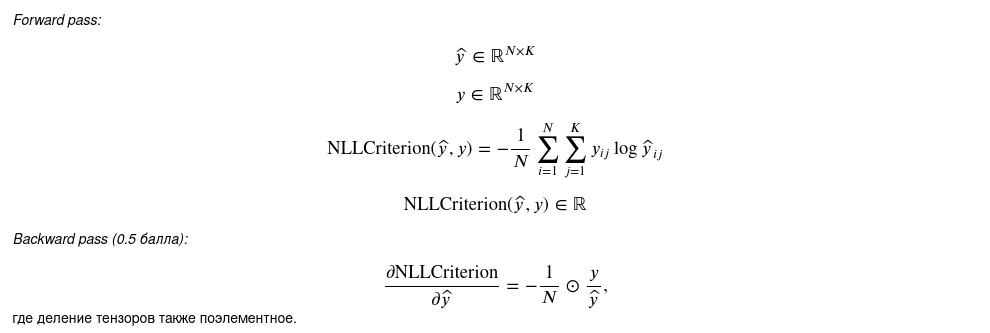
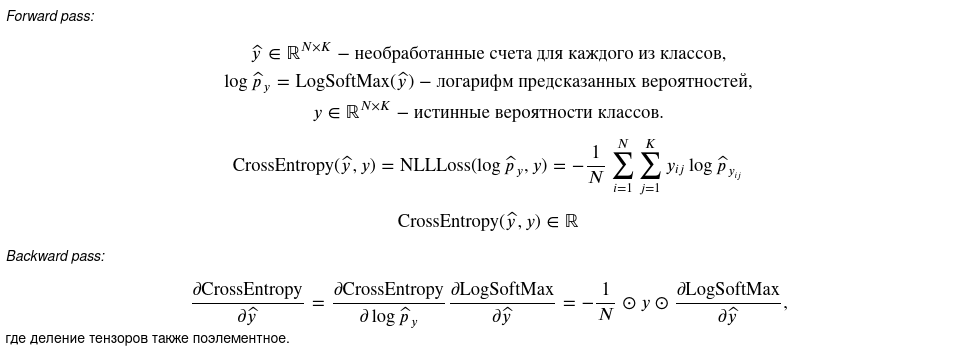
LogSoftmax was implemented and successfully tested

diff --git a/nn/layers.py b/nn/layers.py
@@ -6,7 +6,7 @@ from nn.base import Module
 
 class FullyConnectedLayer(Module):
     """
-    Слой, осуществляющий линейное преобразоваие: Y = X @ W + b, Y \in R^{N x n_out}, X \in R^{N, n_in}.
+    Слой, осуществляющий линейное преобразование: Y = X @ W + b, Y \in R^{N x n_out}, X \in R^{N, n_in}.
 
     Атрибуты
     --------
@@ -32,7 +32,7 @@ class FullyConnectedLayer(Module):
         `bias` : boolean
             Нужен ли bias?
         `init` : torch.tensor с shape=(in_features, out_features)
-            Содержит значения, которыми иницализируются веса слоя. Заметим, что в реализации pytorch
+            Содержит значения, которыми инициализируются веса слоя. Заметим, что в реализации pytorch
             bias не инициализируется извне, у нас тоже не будет.
         """
         super(FullyConnectedLayer, self).__init__()
@@ -106,3 +106,23 @@ class Softmax(Module):
 
         return self.grad_input
 
+
+class LogSoftmax(Module):
+    """Осуществляет log(softmax)-преобразование. Подробности по формулам см. в README.md."""
+
+    def forward(self, module_input):
+        # Нормализуем для численной устойчивости
+        self.output = module_input - module_input.max(axis=1, keepdim=True).values
+        self.output = self.output - torch.log(torch.sum(torch.exp(self.output), dim=1, keepdim=True))
+
+        return self.output
+
+    def update_module_input_grad(self, module_input, grad_output):
+        # Нормализуем для численной устойчивости, а потом уже возводим в exp
+        exp_module_input = torch.exp(module_input - module_input.max(axis=1, keepdim=True).values)
+        softmax = exp_module_input / torch.sum(exp_module_input, dim=1, keepdim=True)
+
+        self.grad_input = grad_output.clone().detach()
+        self.grad_input -= torch.mul(softmax, torch.sum(grad_output, dim=1, keepdim=True))
+
+        return self.grad_input

diff --git a/tests/test_everything.py b/tests/test_everything.py
@@ -2,7 +2,7 @@ import torch
 import numpy as np
 import unittest
 
-from nn.layers import FullyConnectedLayer, Softmax
+from nn.layers import FullyConnectedLayer, Softmax, LogSoftmax
 from nn.models import FeedForwardModel
 from nn.activations import ReLU, Sigmoid
 from nn.losses import MSE, CrossEntropy, KLDivergence
@@ -172,6 +172,32 @@ class TestLayers(unittest.TestCase):
             # Инициализируем слои
             custom_layer = Softmax()
             torch_layer = torch.nn.Softmax(dim=1)
+
+            # Формируем тестовые входные тензоры
+            layer_input = self._generate_test_data((batch_size, n_in))
+            next_layer_grad = self._generate_test_data((batch_size, n_in))
+
+            # Тестируем наш слой
+            custom_layer_output, custom_layer_input_grad = self._custom_forward_backward(
+                layer_input, next_layer_grad, custom_layer
+            )
+            # Тестируем слой на PyTorch
+            torch_layer_output, torch_layer_input_grad = self._torch_forward_backward(
+                layer_input, next_layer_grad, torch_layer
+            )
+
+            # Сравниваем выходы с точностью atol
+            self.assertTrue(torch.allclose(custom_layer_output, torch_layer_output, atol=1e-5))
+            self.assertTrue(torch.allclose(custom_layer_input_grad, torch_layer_input_grad, atol=1e-5))
+
+    def test_LogSoftmax(self):
+        torch.manual_seed(RANDOM_SEED)
+        batch_size, n_in = 2, 4
+
+        for _ in range(100):
+            # Инициализируем слои
+            custom_layer = LogSoftmax()
+            torch_layer = torch.nn.LogSoftmax(dim=1)
 
             # Формируем тестовые входные тензоры
             layer_input = self._generate_test_data((batch_size, n_in))

diff --git a/nn/losses.py b/nn/losses.py
@@ -2,6 +2,7 @@ import torch
 from abc import abstractmethod
 
 from nn.base import Module
+from nn.layers import LogSoftmax
 
 
 class Loss(Module):
@@ -96,15 +97,20 @@ class CrossEntropy(Loss):
 
     EPS = 1e-15  # Для стабильности работы логарифма и деления при нулевых вероятностях.
 
+    def __init__(self):
+        super(CrossEntropy, self).__init__()
+        self.log_softmax_layer = LogSoftmax()
+
     def forward(self, y_pred, y_true):
         y_pred_clamp = torch.clip(y_pred, self.EPS, 1 - self.EPS)
-        self.output = -torch.sum(torch.log(y_pred_clamp) * y_true) / len(y_pred)
+        log_probs = self.log_softmax_layer.forward(y_pred_clamp)
+        self.output = -torch.sum(torch.mul(log_probs, y_true)) / y_true.nelement()
 
         return self.output
 
     def update_module_input_grad(self, y_pred, y_true):
         y_pred_clamp = torch.clip(y_pred, self.EPS, 1 - self.EPS)
-        self.grad_input = -y_true / y_pred_clamp / len(y_pred)
+        self.grad_input = -y_true / y_pred_clamp / y_true.nelement()
 
         return self.grad_input
 

diff --git a/nn/activations.py b/nn/activations.py
@@ -32,7 +32,7 @@ class ReLU(Module):
         super(ReLU, self).__init__()
 
     def forward(self, module_input):
-        self.output = torch.maximum(module_input, torch.zeros(size=module_input.shape))
+        self.output = torch.maximum(module_input, torch.tensor(0.))
         return self.output
 
     def update_module_input_grad(self, layer_input, grad_output):

diff --git a/README.md b/README.md
@@ -5,6 +5,10 @@
 2) SoftMax слой.
    ![SoftMax1](SoftMax1.png)
    ![SoftMax2](SoftMax2.png)
+   
+3) LogSoftMax слой.
+   ![LogSoftMax1](LogSoftMax1.png)
+   ![LogSoftMax2](LogSoftMax2.png)
 
 
 Пояснение по функциям активации.
@@ -18,7 +22,7 @@
 1) MSE loss.
    ![MSE](MSE.png)
    
-2) Cross-entropy loss (NLL loss).
+2) Cross-entropy loss.
    ![CrossEntropy](CrossEntropy.png)
    
 3) Kullback-Leibler divergence loss.
